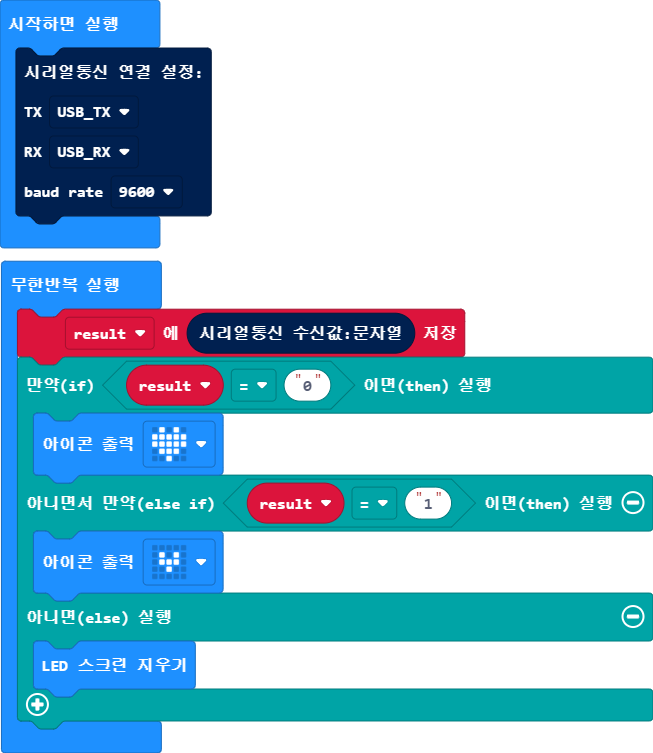
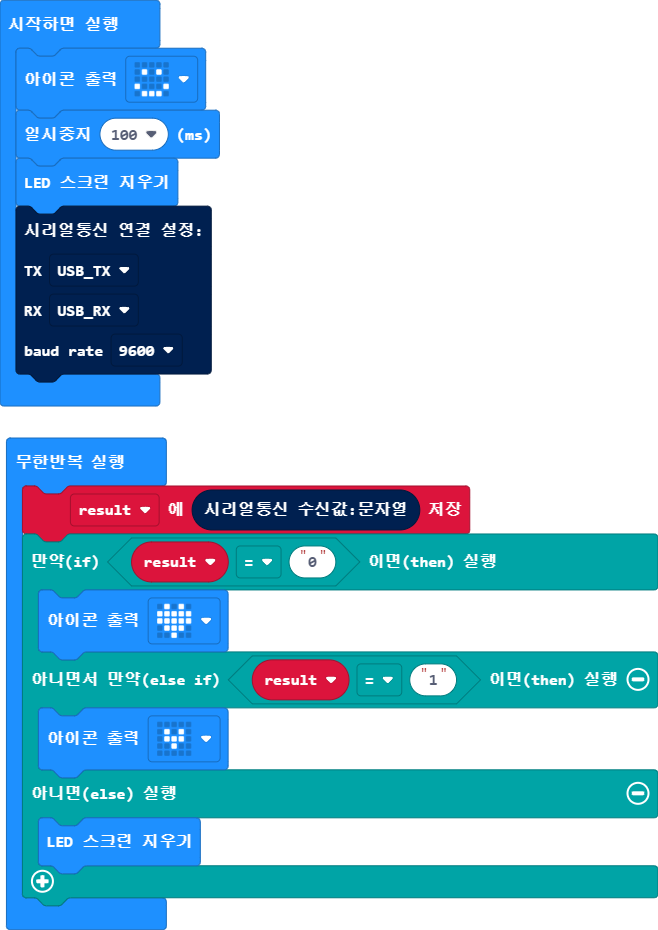
main.blocks, main.ts 업데이트하기

diff --git a/main.ts b/main.ts
@@ -1,4 +1,7 @@
 let result = ""
+basic.showIcon(IconNames.Happy)
+basic.pause(100)
+basic.clearScreen()
 serial.redirect(
 SerialPin.USB_TX,
 SerialPin.USB_RX,
